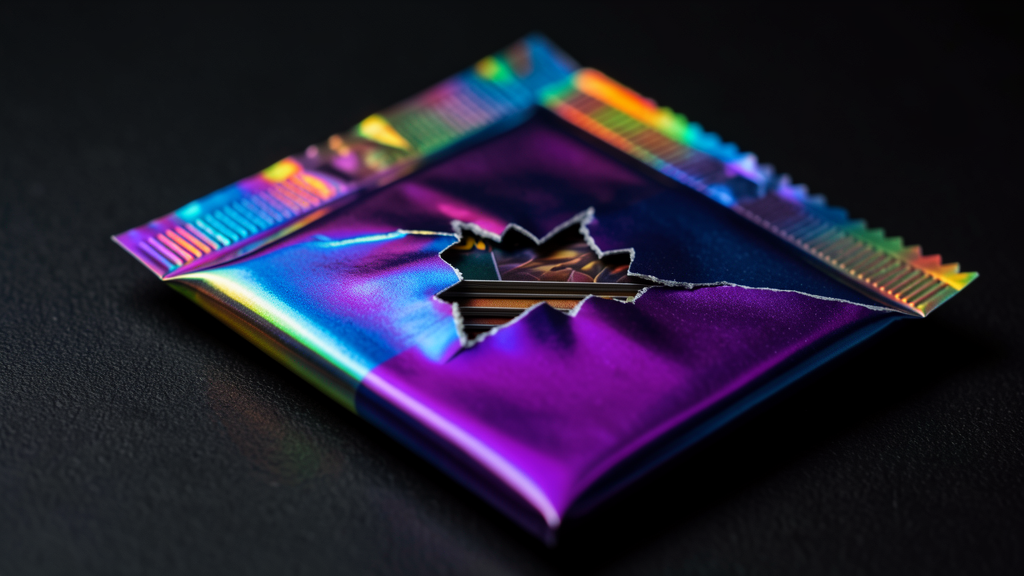
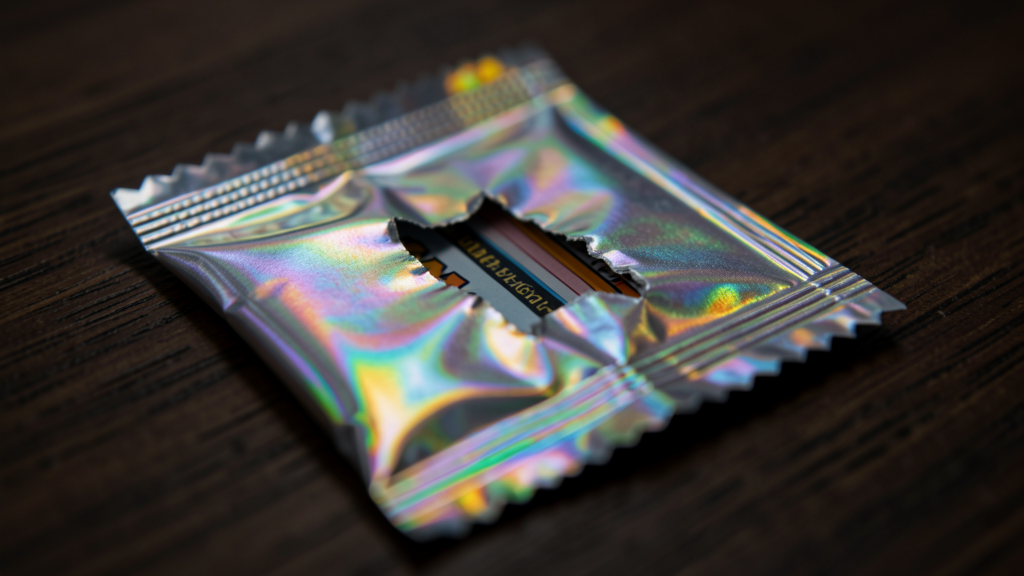
readme: make platform-agnostic, replace AI-trope cover with real booster pack photo
- Title 'Hermes Skill Packs' → 'Skill Packs'
- Hermes commands moved to collapsible section
- Added 'Other agents' section for OpenCode, Claude Code, etc.
- Cover replaced with product-photography style booster pack (no AI tropes)

diff --git a/README.md b/README.md
@@ -1,22 +1,25 @@
 <picture>
   <source media="(prefers-color-scheme: dark)" srcset="skill-packs-cover.png">
-  <img alt="Hermes Skill Packs — trading card collection of 115 reusable AI skills" src="skill-packs-cover.png" width="100%">
+  <img alt="Skill Packs — trading card collection of 115 reusable agent skills" src="skill-packs-cover.png" width="100%">
 </picture>
 
-# Hermes Skill Packs
+# Skill Packs
 
-**115 reusable skills** for [Hermes Agent](https://hermes-agent.nousresearch.com) — AI agent workflows, code, research, creative tools, productivity, devops, and more. Installed in one command via `hermes skills tap`.
+**115 reusable skills** for AI agents — code, research, creative tools, productivity, devops, and more. Drop them into any agent that supports SKILL.md-formatted procedures.
 
 [![Skills](https://img.shields.io/badge/skills-115-blue)](https://github.com/chrisluersen/skill-packs)
 [![Categories](https://img.shields.io/badge/categories-19-green)](https://github.com/chrisluersen/skill-packs)
 [![License](https://img.shields.io/badge/license-MIT-yellow)](LICENSE)
 [![Generated](https://img.shields.io/badge/generated-2026--07--13-lightgrey)](catalog.json)
 
-Every skill is a structured `SKILL.md` — instructions, examples, pitfalls, and code — loaded into your agent's context on command. Collect them, install them, use them across any agent session.
+Every skill is a structured `SKILL.md` — instructions, examples, pitfalls, and code — loaded into your agent's context on command. Collect them, install them, use them across any compatible agent session.
 
 ---
 
 ## Quickstart
+
+<details>
+<summary><b>Hermes Agent</b> (click to expand)</summary>
 
 ```bash
 # Add this repository as a skill source
@@ -31,7 +34,36 @@ hermes skills install chrisluersen/skill-packs/<skill-name>
 
 **Example:** `hermes skills install chrisluersen/skill-packs/web-research-synthesis`
 
-> **New to skills?** A skill is a SKILL.md file with structured instructions, examples, and pitfalls — loaded into your agent's context on command. See the [Hermes skills docs](https://hermes-agent.nousresearch.com/docs).
+```bash
+# List installed skills
+hermes skills list
+
+# View a skill's content
+hermes skills view <skill-name>
+
+# Remove a skill
+hermes skills remove <skill-name>
+
+# Update all skills from registered taps
+hermes skills update
+```
+
+→ [Hermes Agent docs](https://hermes-agent.nousresearch.com/docs)
+</details>
+
+<details>
+<summary><b>Other agents</b> (OpenCode, Claude Code, Codex, etc.)</summary>
+
+Skills are plain `SKILL.md` markdown files. Any agent that supports structured skill loading can consume them:
+
+1. Clone or download this repo
+2. Point your agent's skill loader at the `skills/` directory
+3. The `SKILL.md` files contain full instructions, steps, examples, and pitfalls — no Hermes dependency in the skill content itself
+
+Check your agent's documentation for skill loading specifics.
+</details>
+
+> **New to skills?** A skill is a SKILL.md file with structured instructions, examples, and pitfalls — loaded into your agent's context on command. No platform dependency in the skill format itself.
 
 ---
 
@@ -53,18 +85,18 @@ hermes skills install chrisluersen/skill-packs/<skill-name>
 ## Skills by Category
 
 ### autonomous-ai-agents *(9 skills)*
-Coding agent delegation — Claude Code, Codex, OpenCode. Hermes setup, remote access, runtime comparison, tool diagnostics, and delegation boundaries.
+Coding agent delegation — Claude Code, Codex, OpenCode. Agent setup, remote access, runtime comparison, tool diagnostics, and delegation boundaries.
 
 | Skill | Version | Description |
 |-------|---------|-------------|
 | [`claude-code`](skills/autonomous-ai-agents/claude-code/SKILL.md) | 2.2.0 | Delegate coding to Claude Code CLI (features, PRs). |
 | [`codex`](skills/autonomous-ai-agents/codex/SKILL.md) | 1.0.0 | Delegate coding to OpenAI Codex CLI. |
 | [`delegation-boundaries`](skills/autonomous-ai-agents/delegation-boundaries/SKILL.md) | 0.0.0 | Judgment framework for delegating to subagents — cost model, failure modes, recovery. |
-| [`hermes-agent`](skills/autonomous-ai-agents/hermes-agent/SKILL.md) | 2.1.0 | Configure, extend, or contribute to Hermes Agent. |
-| [`hermes-browser-interfaces`](skills/autonomous-ai-agents/hermes-browser-interfaces/SKILL.md) | 1.1.0 | Set up browser UIs for Hermes — dashboard, web interface. |
+| [`hermes-agent`](skills/autonomous-ai-agents/hermes-agent/SKILL.md) | 2.1.0 | Configure, extend, or contribute to an agent platform. |
+| [`hermes-browser-interfaces`](skills/autonomous-ai-agents/hermes-browser-interfaces/SKILL.md) | 1.1.0 | Set up browser UIs for your agent — dashboard, web interface. |
 | [`hermes-remote-access`](skills/autonomous-ai-agents/hermes-remote-access/SKILL.md) | 1.0.0 | Remote and mobile access via Gateway API Server, Tailscale. |
 | [`hermes-runtime-comparison`](skills/autonomous-ai-agents/hermes-runtime-comparison/SKILL.md) | 2.0.0 | Compare CLI/TUI, Gateway, Dashboard, Desktop, Web runtimes. |
-| [`hermes-tool-diagnostics`](skills/autonomous-ai-agents/hermes-tool-diagnostics/SKILL.md) | 1.3.0 | Troubleshoot tool availability — missing dependencies, ACP recovery. |
+| [`hermes-tool-diagnostics`](skills/autonomous-ai-agents/hermes-tool-diagnostics/SKILL.md) | 1.3.0 | Troubleshoot tool availability — missing dependencies, recovery. |
 | [`opencode`](skills/autonomous-ai-agents/opencode/SKILL.md) | 1.2.0 | Delegate coding to OpenCode CLI. |
 
 ### creative *(17 skills)*
@@ -79,8 +111,8 @@ Visuals, diagrams, video, audio, and design — from ASCII art to ComfyUI pipeli
 | [`claude-design`](skills/creative/claude-design/SKILL.md) | 1.1.0 | One-off HTML artifacts — landings, decks, prototypes. |
 | [`comfyui`](skills/creative/comfyui/SKILL.md) | 5.1.0 | Image, video, audio generation — install, manage nodes/models. |
 | [`design-md`](skills/creative/design-md/SKILL.md) | 1.0.0 | Author/validate/export Google DESIGN.md token spec files. |
-| [`eikon`](skills/creative/eikon/SKILL.md) | 0.0.0 | Guide for making/editing herm sidebar avatars (eikons). |
-| [`eikon-create`](skills/creative/eikon-create/SKILL.md) | 0.0.0 | Generate source images and video for herm eikons. |
+| [`eikon`](skills/creative/eikon/SKILL.md) | 0.0.0 | Guide for making/editing agent sidebar avatars. |
+| [`eikon-create`](skills/creative/eikon-create/SKILL.md) | 0.0.0 | Generate source images and video for agent avatars. |
 | [`excalidraw`](skills/creative/excalidraw/SKILL.md) | 1.0.0 | Hand-drawn Excalidraw JSON diagrams. |
 | [`html-doc-ux`](skills/creative/html-doc-ux/SKILL.md) | 0.0.0 | UX enhancements for static HTML reference documents. |
 | [`humanizer`](skills/creative/humanizer/SKILL.md) | 2.5.1 | Strip AI-isms and add real voice. |
@@ -91,17 +123,20 @@ Visuals, diagrams, video, audio, and design — from ASCII art to ComfyUI pipeli
 | [`touchdesigner-mcp`](skills/creative/touchdesigner-mcp/SKILL.md) | 1.1.0 | Control TouchDesigner via MCP — operators, parameters, networks. |
 
 ### data-science *(1 skill)*
+
 | Skill | Version | Description |
 |-------|---------|-------------|
 | [`jupyter-live-kernel`](skills/data-science/jupyter-live-kernel/SKILL.md) | 1.0.0 | Iterative Python via live Jupyter kernel (hamelnb). |
 
 ### devops *(2 skills)*
+
 | Skill | Version | Description |
 |-------|---------|-------------|
 | [`fleet-health-watchdog`](skills/devops/fleet-health-watchdog/SKILL.md) | 1.2.0 | Fleet health cron — silent when healthy, alerts on circuit breaker. |
 | [`npm-workspace-maintenance`](skills/devops/npm-workspace-maintenance/SKILL.md) | 1.0.0 | Fix npm vulnerabilities, broken lockfiles, dependency issues. |
 
 ### email *(1 skill)*
+
 | Skill | Version | Description |
 |-------|---------|-------------|
 | [`himalaya`](skills/email/himalaya/SKILL.md) | 1.1.0 | IMAP/SMTP email from terminal via Himalaya CLI. |
@@ -123,25 +158,25 @@ Repository management, PR workflows, code review, fork operations, and auth — 
 | [`github-windows-operations`](skills/github/github-windows-operations/SKILL.md) | 0.0.0 | GitHub operations on Windows — credential helpers, path handling. |
 
 ### hermes *(16 skills)*
-Extend, configure, and evolve Hermes Agent itself — fleet profiles, cron, MCP, gateway, skill authoring, self-evolution, session continuity, and multi-agent orchestration design.
+Extend, configure, and evolve an AI agent platform — fleet profiles, cron, MCP, gateway, skill authoring, self-evolution, session continuity, and multi-agent orchestration design.
 
 | Skill | Version | Description |
 |-------|---------|-------------|
 | [`agent-persona-authoring`](skills/hermes/agent-persona-authoring/SKILL.md) | 0.0.0 | Author and refine agent personality/identity documents (SOUL.md). |
 | [`cost-performance-tuning`](skills/hermes/cost-performance-tuning/SKILL.md) | 1.6.0 | Tune model, compression, streaming, delegation settings. |
-| [`hermes-cron-operations`](skills/hermes/hermes-cron-operations/SKILL.md) | 1.5.0 | Operate and troubleshoot the Hermes cron scheduler. |
-| [`hermes-fleet-profiles`](skills/hermes/hermes-fleet-profiles/SKILL.md) | 1.11.0 | Deploy multi-agent fleet profiles from a wiki manifest. |
-| [`hermes-gateway-setup`](skills/hermes/hermes-gateway-setup/SKILL.md) | 0.0.0 | Configure Telegram, Discord, SMS gateways. |
-| [`hermes-mcp-debugging`](skills/hermes/hermes-mcp-debugging/SKILL.md) | 1.11.0 | Debug MCP servers — lifecycle, diagnostics, failures. |
-| [`hermes-output-visibility`](skills/hermes/hermes-output-visibility/SKILL.md) | 1.1.0 | Control what you see, how you see it. |
-| [`hermes-provider-setup`](skills/hermes/hermes-provider-setup/SKILL.md) | 1.3.0 | Configure LLM providers — API keys, base URLs, model selection. |
-| [`hermes-role-profile-builder`](skills/hermes/hermes-role-profile-builder/SKILL.md) | 0.0.0 | Create purpose-built profiles for specialized workflows. |
-| [`hermes-session-continuity`](skills/hermes/hermes-session-continuity/SKILL.md) | 0.0.0 | Recover context across compacted or cross-platform sessions. |
+| [`cron-operations`](skills/hermes/hermes-cron-operations/SKILL.md) | 1.5.0 | Operate and troubleshoot the agent cron scheduler. |
+| [`fleet-profiles`](skills/hermes/hermes-fleet-profiles/SKILL.md) | 1.11.0 | Deploy multi-agent fleet profiles from a wiki manifest. |
+| [`gateway-setup`](skills/hermes/hermes-gateway-setup/SKILL.md) | 0.0.0 | Configure Telegram, Discord, SMS gateways. |
+| [`mcp-debugging`](skills/hermes/hermes-mcp-debugging/SKILL.md) | 1.11.0 | Debug MCP servers — lifecycle, diagnostics, failures. |
+| [`output-visibility`](skills/hermes/hermes-output-visibility/SKILL.md) | 1.1.0 | Control what you see, how you see it. |
+| [`provider-setup`](skills/hermes/hermes-provider-setup/SKILL.md) | 1.3.0 | Configure LLM providers — API keys, base URLs, model selection. |
+| [`role-profile-builder`](skills/hermes/hermes-role-profile-builder/SKILL.md) | 0.0.0 | Create purpose-built profiles for specialized workflows. |
+| [`session-continuity`](skills/hermes/hermes-session-continuity/SKILL.md) | 0.0.0 | Recover context across compacted or cross-platform sessions. |
 | [`multi-agent-orchestration-design`](skills/hermes/multi-agent-orchestration-design/SKILL.md) | 2.8.1 | Design optimal multi-agent fleet architectures. |
 | [`self-evolution`](skills/hermes/self-evolution/SKILL.md) | 0.0.0 | Run the self-evolution pipeline — DSPy optimization. |
 | [`skill-maintenance`](skills/hermes/skill-maintenance/SKILL.md) | 2.0.0 | Keep skills lean — bloat audits, consolidation workflows. |
 | [`cascade`](skills/hermes/cascade/SKILL.md) | — | *Documentation placeholder.* |
-| [`isolated-hermes-instance`](skills/hermes/isolated-hermes-instance/SKILL.md) | — | *Documentation placeholder.* |
+| [`isolated-instance`](skills/hermes/isolated-hermes-instance/SKILL.md) | — | *Documentation placeholder.* |
 | [`session-wiki-pipeline`](skills/hermes/session-wiki-pipeline/SKILL.md) | — | *Documentation placeholder.* |
 
 ### knowledge-base-organization *(3 skills)*
@@ -154,11 +189,13 @@ Extract structured knowledge, migrate content, and create entity pages for your 
 | [`wishlist-entity-creation`](skills/knowledge-base-organization/wishlist-entity-creation/SKILL.md) | 0.0.0 | Create standardized entity pages with provenance tracking. |
 
 ### mcp *(1 skill)*
+
 | Skill | Version | Description |
 |-------|---------|-------------|
 | [`native-mcp`](skills/mcp/native-mcp/SKILL.md) | 1.3.0 | MCP client — connect servers, register tools (stdio/HTTP). |
 
 ### media *(3 skills)*
+
 | Skill | Version | Description |
 |-------|---------|-------------|
 | [`heartmula`](skills/media/heartmula/SKILL.md) | 1.0.0 | Suno-like song generation from lyrics + tags. |
@@ -166,23 +203,26 @@ Extract structured knowledge, migrate content, and create entity pages for your 
 | [`youtube-content`](skills/media/youtube-content/SKILL.md) | 0.0.0 | YouTube transcripts to summaries, threads, blogs. |
 
 ### messaging *(1 skill)*
+
 | Skill | Version | Description |
 |-------|---------|-------------|
 | [`signal-cli`](skills/messaging/signal-cli/SKILL.md) | 1.0.0 | Install, configure, and use Signal CLI on Windows. |
 
 ### mlops *(1 skill)*
+
 | Skill | Version | Description |
 |-------|---------|-------------|
 | [`huggingface-hub`](skills/mlops/huggingface-hub/SKILL.md) | 1.0.0 | Search, download, upload models and datasets via hf CLI. |
 
 ### note-taking *(2 skills)*
+
 | Skill | Version | Description |
 |-------|---------|-------------|
 | [`brave-bookmarks-to-wiki`](skills/note-taking/brave-bookmarks-to-wiki/SKILL.md) | 2.2.0 | Parse Brave bookmarks into wiki pages. |
 | [`obsidian`](skills/note-taking/obsidian/SKILL.md) | 0.0.0 | Read, search, create, and edit Obsidian vault notes. |
 
 ### productivity *(16 skills)*
-ADHD-friendly tools, task management, documents, maps, notetaking, and workspace organization. Includes brain-dump, quick-win, and redirect for executive function support.
+ADHD-friendly tools, task management, documents, maps, notetaking, and workspace organization.
 
 | Skill | Version | Description |
 |-------|---------|-------------|
@@ -196,14 +236,15 @@ ADHD-friendly tools, task management, documents, maps, notetaking, and workspace
 | [`nano-pdf`](skills/productivity/nano-pdf/SKILL.md) | 1.0.0 | Edit PDF text/typos/titles via natural language. |
 | [`notion`](skills/productivity/notion/SKILL.md) | 2.0.0 | Notion API + ntn CLI — pages, databases, markdown. |
 | [`ocr-and-documents`](skills/productivity/ocr-and-documents/SKILL.md) | 2.3.0 | Extract text from PDFs and scans. |
-| [`petdex`](skills/productivity/petdex/SKILL.md) | 1.0.0 | Install animated petdex mascots for Hermes. |
+| [`petdex`](skills/productivity/petdex/SKILL.md) | 1.0.0 | Install animated petdex mascots for your agent. |
 | [`powerpoint`](skills/productivity/powerpoint/SKILL.md) | 0.0.0 | Create, read, edit .pptx decks and slides. |
 | [`quick-win`](skills/productivity/quick-win/SKILL.md) | 3 | ADHD dopamine hack — find a single ≤5 min task. |
 | [`recipe-card-generation`](skills/productivity/recipe-card-generation/SKILL.md) | 0.0.0 | Generate formatted recipe cards as PDFs. |
 | [`redirect`](skills/productivity/redirect/SKILL.md) | 3 | ADHD recovery — minimize distractions and re-engage. |
-| [`teams-meeting-pipeline`](skills/productivity/teams-meeting-pipeline/SKILL.md) | 1.1.0 | Summarize Teams meetings via Hermes CLI. |
+| [`teams-meeting-pipeline`](skills/productivity/teams-meeting-pipeline/SKILL.md) | 1.1.0 | Summarize Teams meetings via CLI. |
 
 ### red-teaming *(1 skill)*
+
 | Skill | Version | Description |
 |-------|---------|-------------|
 | [`godmode`](skills/red-teaming/godmode/SKILL.md) | 1.0.0 | LLM jailbreaking research — Parseltongue, GODMODE, ULTRAPLINIAN. |
@@ -223,11 +264,13 @@ Academic research, market data, community mining, and paper writing — arxiv, P
 | [`ecosystem-reconnaissance`](skills/research/ecosystem-reconnaissance/SKILL.md) | — | *Documentation placeholder.* |
 
 ### smart-home *(1 skill)*
+
 | Skill | Version | Description |
 |-------|---------|-------------|
 | [`openhue`](skills/smart-home/openhue/SKILL.md) | 1.0.0 | Control Philips Hue lights, scenes, rooms via CLI. |
 
 ### social-media *(1 skill)*
+
 | Skill | Version | Description |
 |-------|---------|-------------|
 | [`xurl`](skills/social-media/xurl/SKILL.md) | 1.1.1 | X/Twitter — post, search, DM, media, v2 API. |
@@ -238,7 +281,7 @@ Full-stack development workflows — terminal stack, TDD, debugging, code review
 | Skill | Version | Description |
 |-------|---------|-------------|
 | [`ai-terminal-stack`](skills/software-development/ai-terminal-stack/SKILL.md) | 0.0.0 | Plan and configure an AI terminal stack: zellij, neovim, WezTerm. |
-| [`hermes-agent-skill-authoring`](skills/software-development/hermes-agent-skill-authoring/SKILL.md) | 2.0.0 | Author SKILL.md files — frontmatter, structure, conventions. |
+| [`skill-authoring`](skills/software-development/hermes-agent-skill-authoring/SKILL.md) | 2.0.0 | Author SKILL.md files — frontmatter, structure, conventions. |
 | [`html-application-building`](skills/software-development/html-application-building/SKILL.md) | 0.0.0 | Build polished, self-contained HTML single-page apps. |
 | [`local-llm-setup`](skills/software-development/local-llm-setup/SKILL.md) | 1.0.0 | Local LLM inference on Windows — Ollama, llama.cpp, vLLM. |
 | [`node-inspect-debugger`](skills/software-development/node-inspect-debugger/SKILL.md) | 1.0.0 | Debug Node.js via --inspect + CDP CLI. |
@@ -257,33 +300,13 @@ Full-stack development workflows — terminal stack, TDD, debugging, code review
 
 ---
 
-## Managing Installed Skills
-
-```bash
-# List installed skills
-hermes skills list
-
-# View a skill's content (loaded after install)
-hermes skills view <skill-name>
-
-# Remove a skill
-hermes skills remove <skill-name>
-
-# Update all skills from registered taps
-hermes skills update
-```
-
-See the [Hermes Agent documentation](https://hermes-agent.nousresearch.com/docs) for complete CLI reference.
-
----
-
 ## Contributing
 
 This repository is auto-generated from a private monorepo via PII-gated export. Skills are curated, sanitized, and published periodically.
 
 **To suggest improvements or report issues:** open a GitHub issue with the skill name in the title.
 
-**To create your own skills:** use the `hermes-agent-skill-authoring` skill for structure and conventions, then publish via `hermes skills tap add <your-repo>`.
+**To create your own skills:** use the `skill-authoring` skill for structure and conventions, then publish via your agent's skill tap system.
 
 ---
 